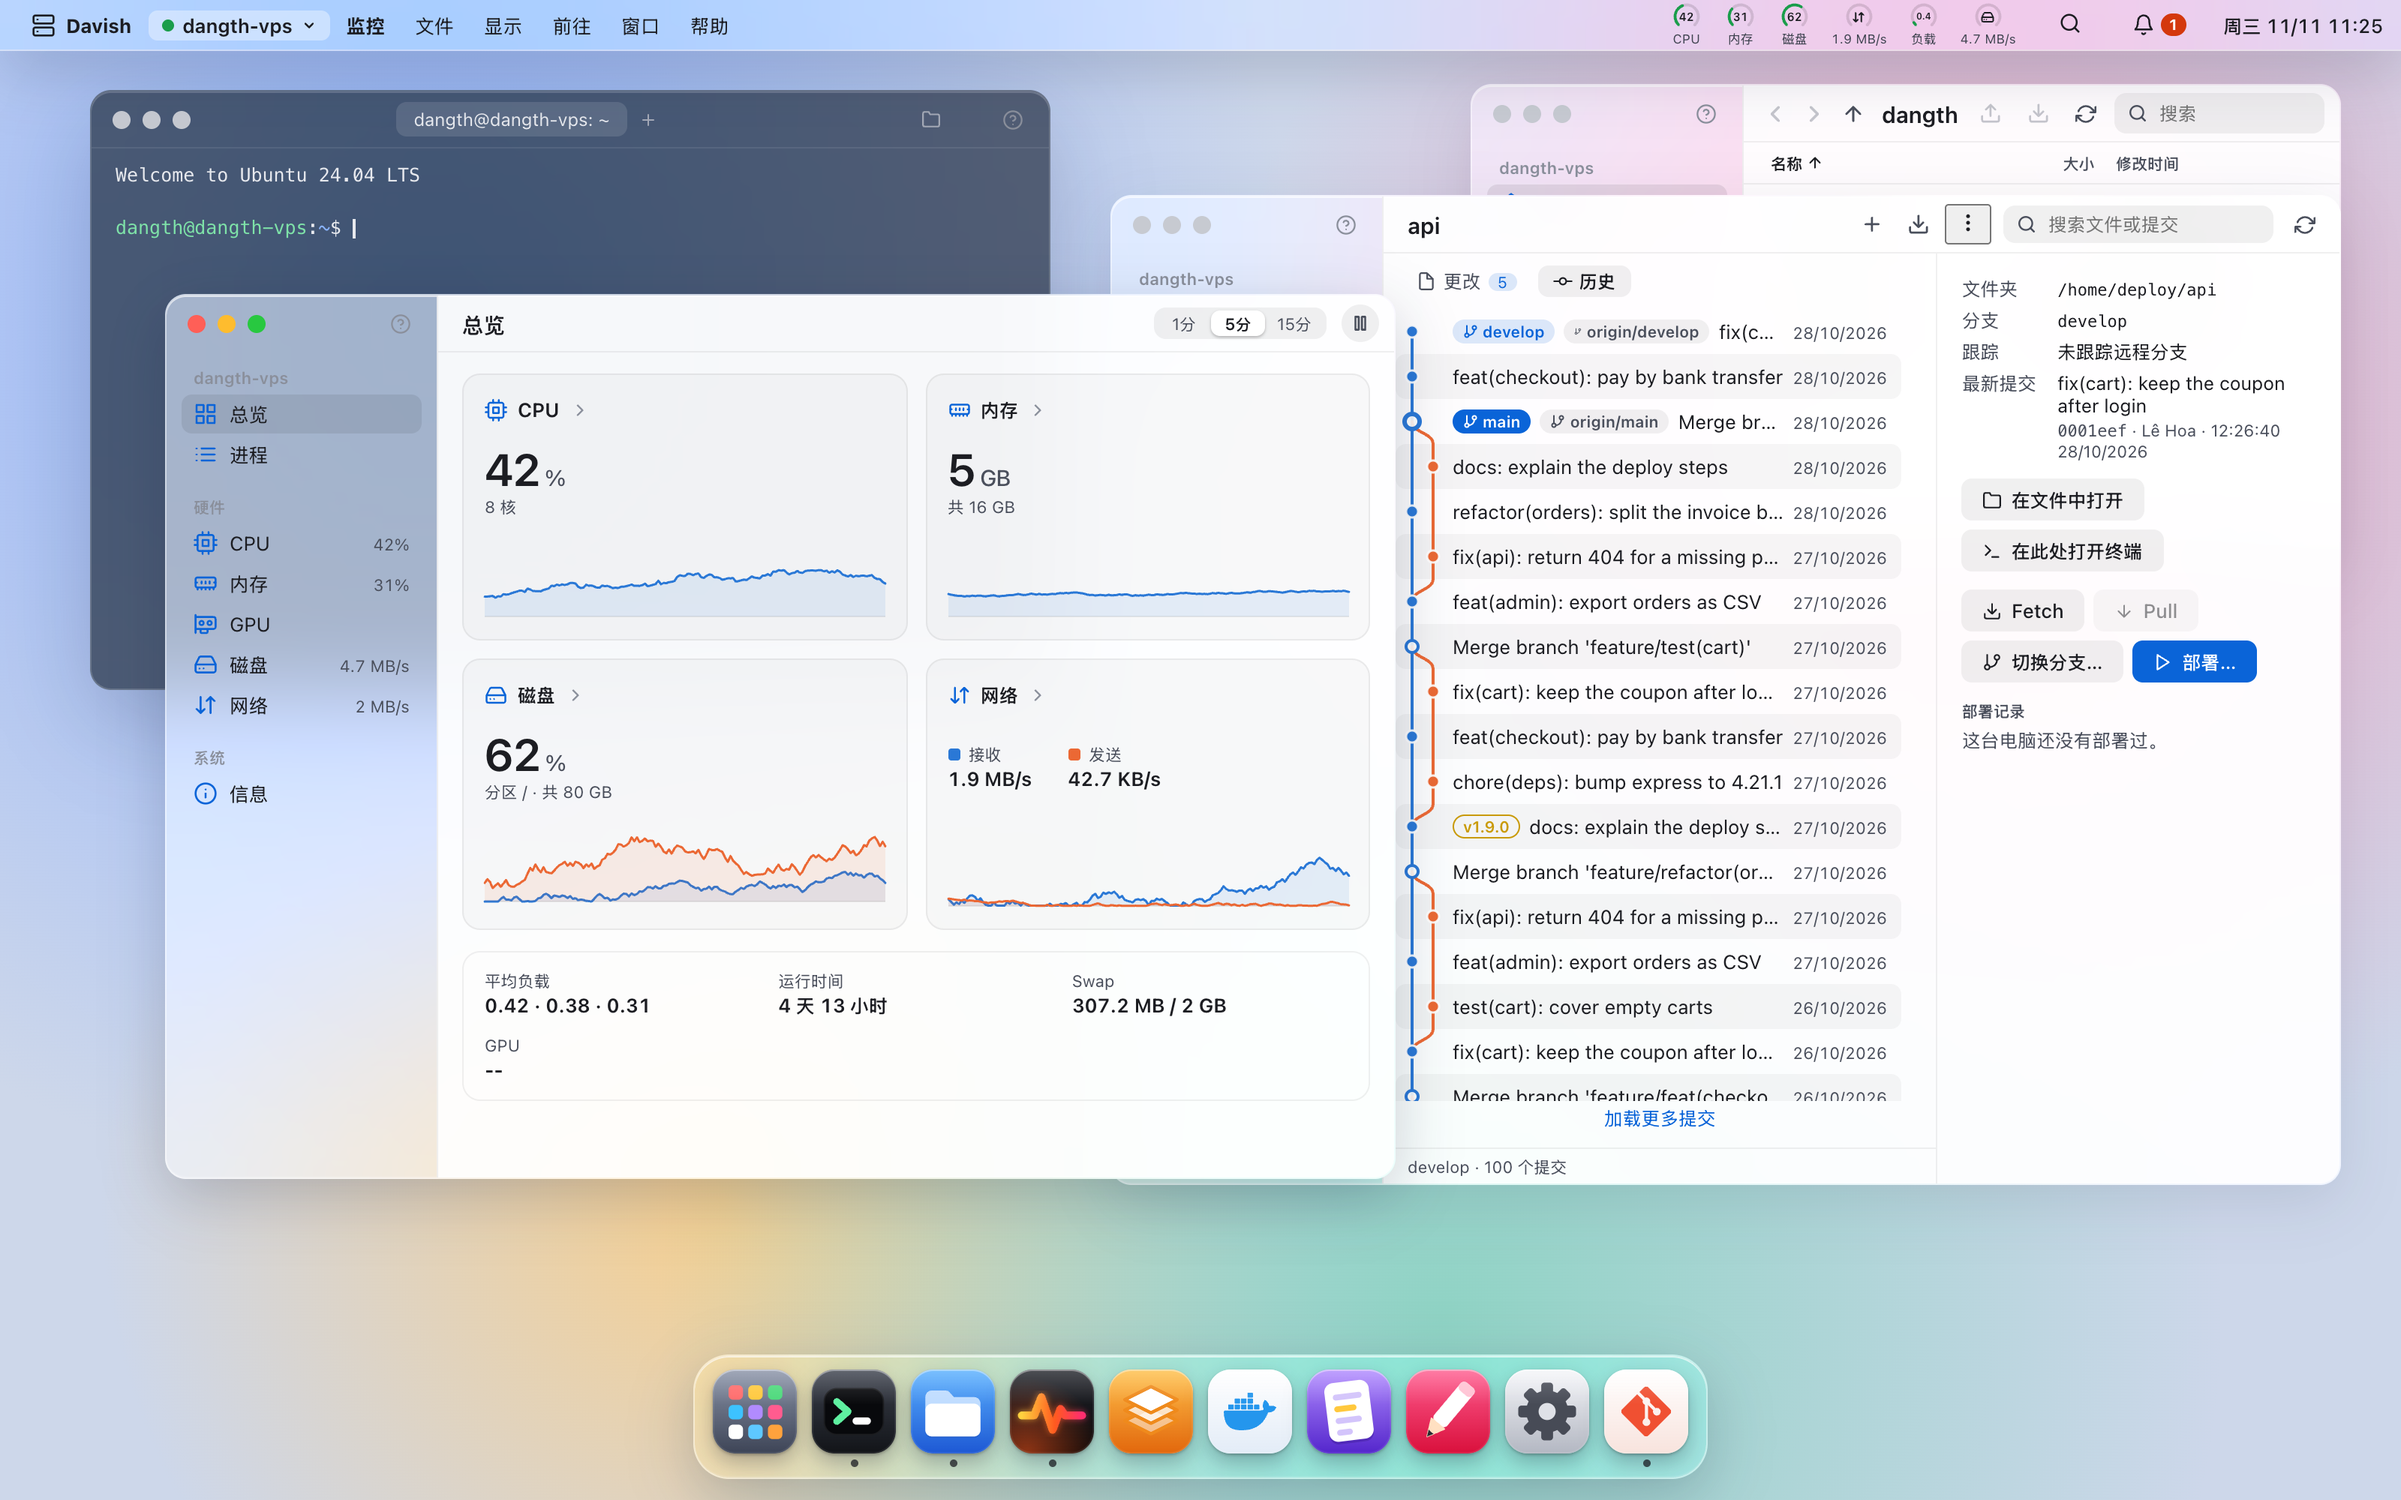
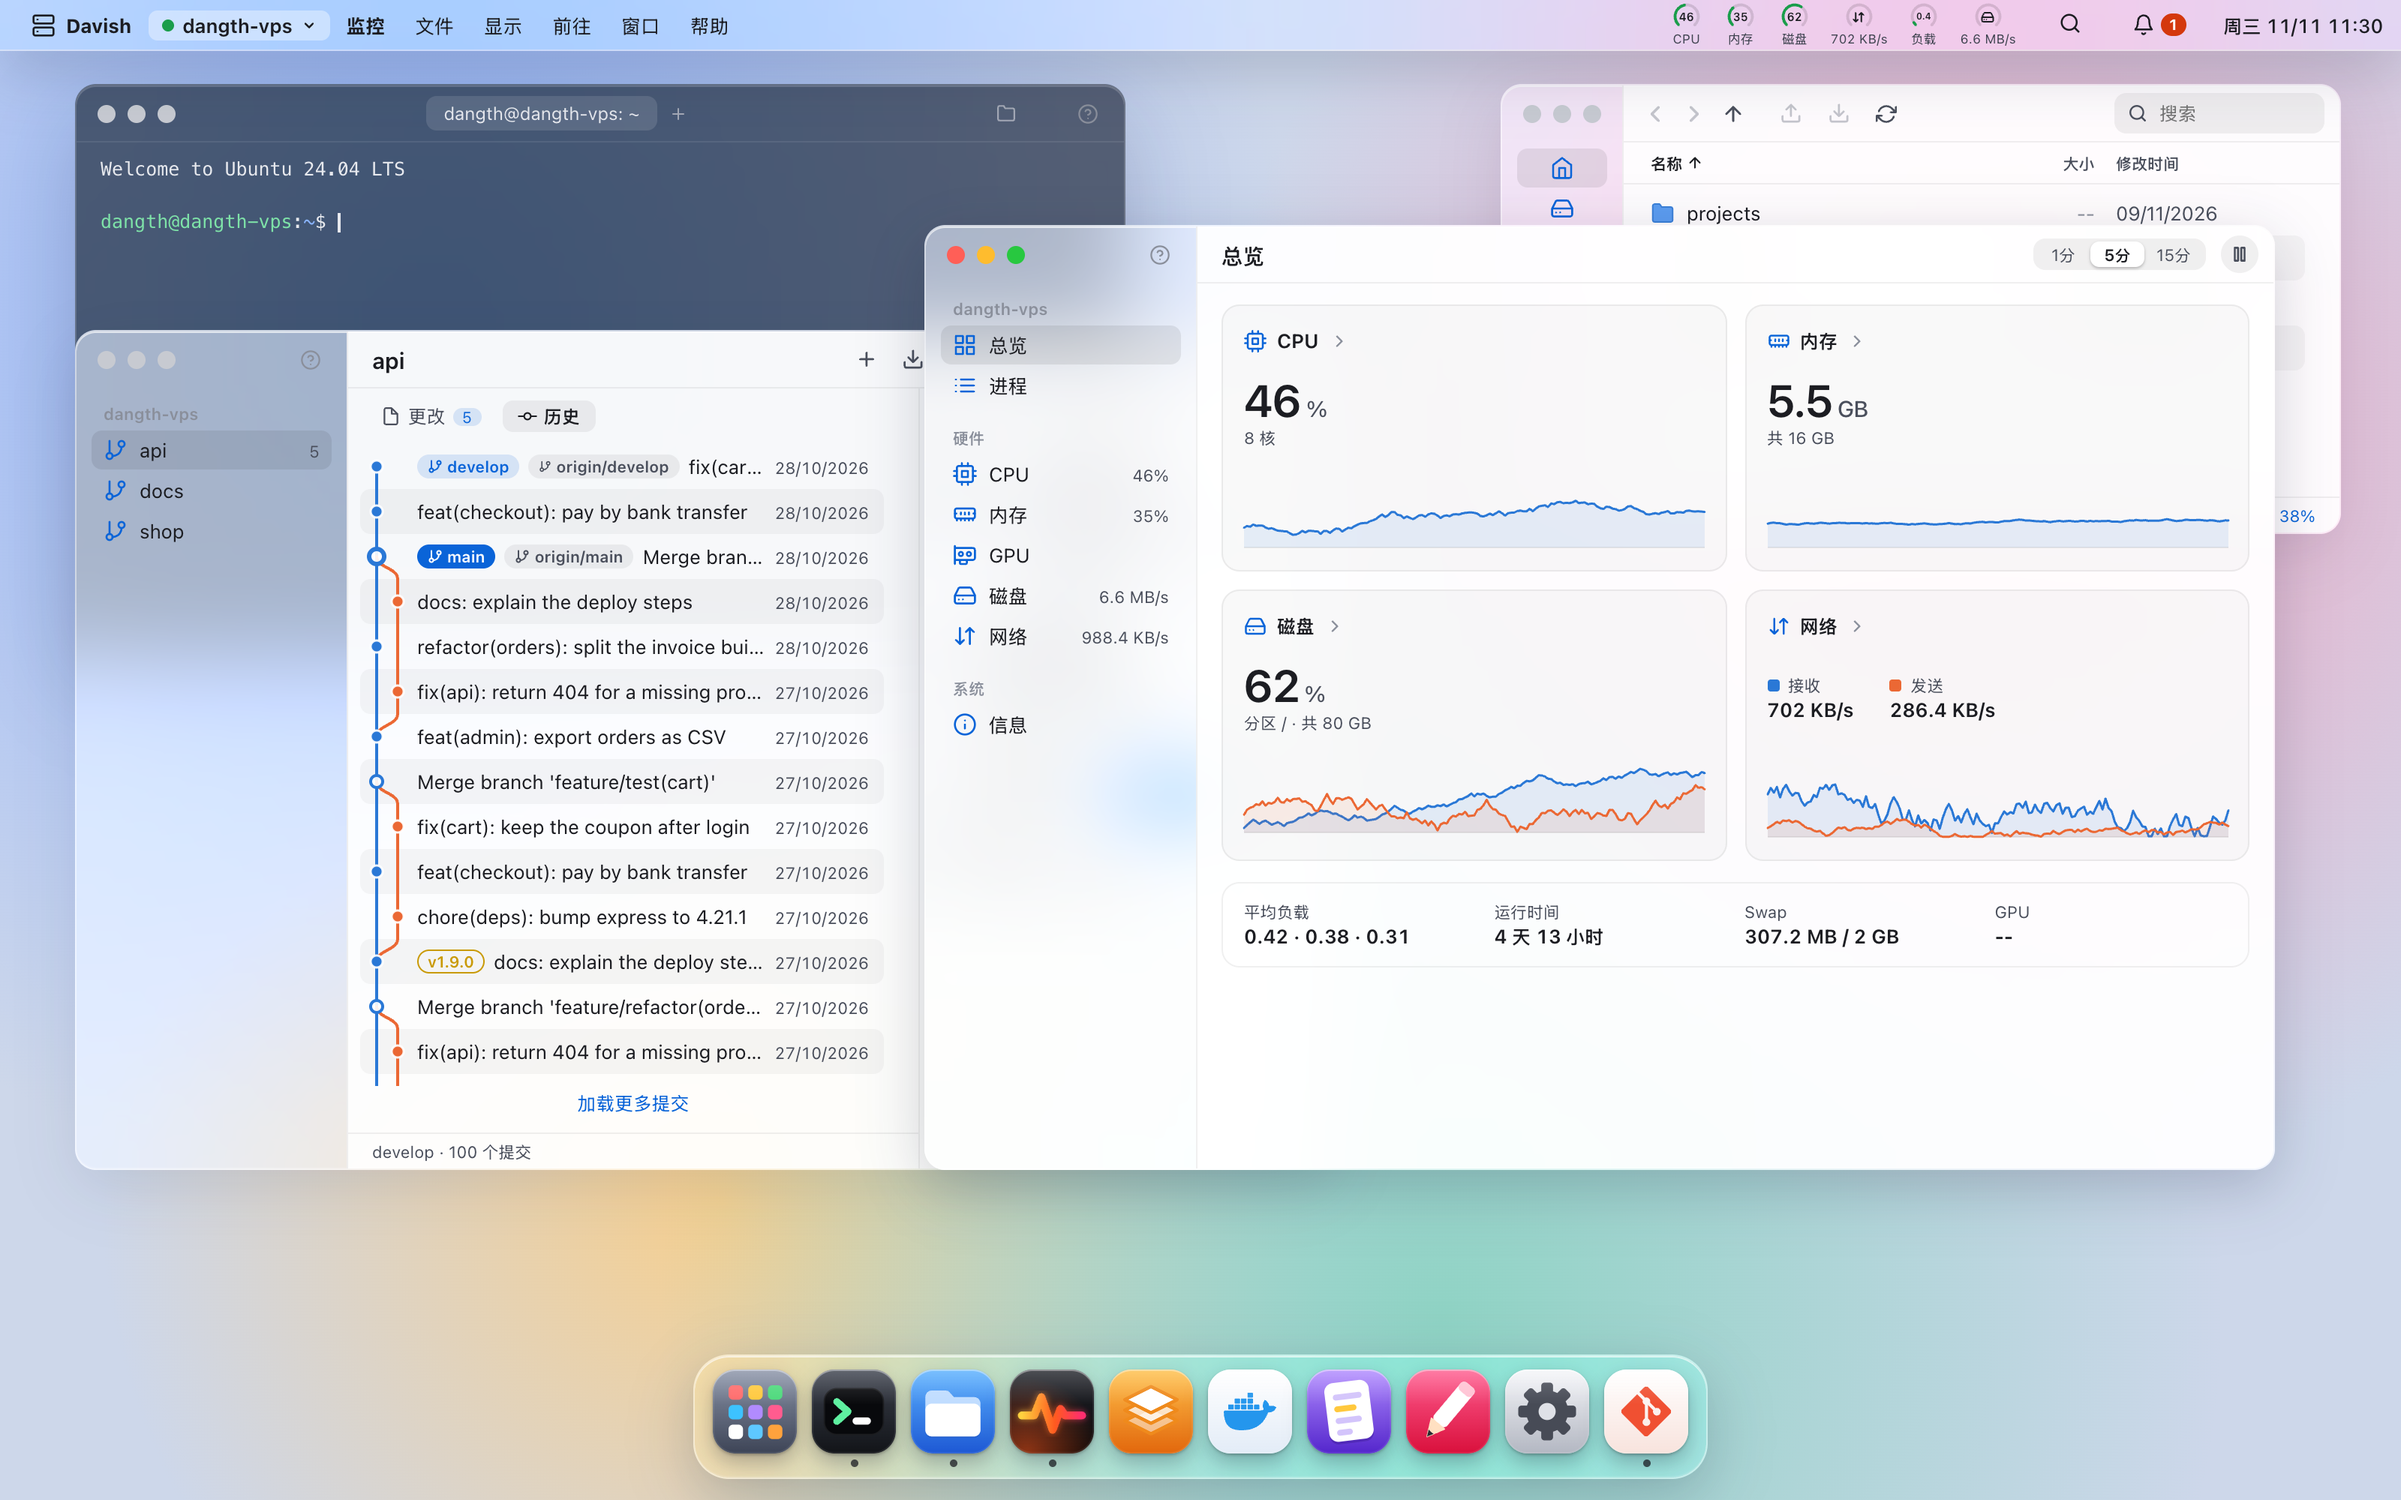
docs(repo): retake the desktop screenshots with the Git commit graph
Every README now opens on Terminal, Git's commit graph, Monitor and Files
in its own language, at 2x. The banner source takes ?lang= and renders
an English, Vietnamese and Chinese banner.

diff --git a/scripts/social-preview.html b/scripts/social-preview.html
@@ -1,6 +1,6 @@
 <!doctype html><html><head><meta charset="utf-8"><style>
 html,body{margin:0;width:1280px;height:640px;overflow:hidden}
-body{background:linear-gradient(135deg,#1b2140,#2b3a6b 55%,#4a3f7a);font-family:-apple-system,"SF Pro Display",Helvetica,sans-serif;color:#fff;position:relative}
+body{background:linear-gradient(135deg,#1b2140,#2b3a6b 55%,#4a3f7a);font-family:-apple-system,"SF Pro Display",Helvetica,"PingFang SC",sans-serif;color:#fff;position:relative}
 .l{position:absolute;left:80px;top:150px;width:560px}
 img.i{width:120px;height:120px}
 h1{font-size:84px;margin:20px 0 8px;letter-spacing:-2px}
@@ -9,7 +9,19 @@ p{font-size:30px;line-height:1.35;margin:0;color:#d8def5}
 .s{position:absolute;right:-60px;top:110px;width:640px;border-radius:14px;box-shadow:0 30px 80px rgba(0,0,0,.5);transform:perspective(1400px) rotateY(-12deg)}
 </style></head><body>
 <div class="l"><img class="i" src="../assets/icon/png/davish-1024.png"><h1>Davish</h1>
-<p>A desktop for your Linux servers.<br>Open it and you're in, over SSH.</p>
-<div class="t">No web panel · No login · No agent</div></div>
-<img class="s" src="../assets/screenshots/en/desktop.jpg">
+<p id="lead"></p>
+<div class="t" id="tag"></div></div>
+<img class="s" id="shot">
+<script>
+// ?lang=en|vi|zh picks the text and the desktop screenshot of that README.
+const TEXT = {
+  en: ["A desktop for your Linux servers.<br>Open it and you're in, over SSH.", "No web panel · No login · No agent", "en/desktop.png"],
+  vi: ["Một desktop cho các server Linux.<br>Mở ra là vào, qua SSH.", "Không web panel · Không đăng nhập · Không agent", "desktop.png"],
+  zh: ["你的 Linux 服务器，就是一个桌面。<br>打开就能用，全部走 SSH。", "无 Web 面板 · 无需登录 · 无 Agent", "zh/desktop.png"],
+};
+const [lead, tag, shot] = TEXT[new URLSearchParams(location.search).get("lang")] ?? TEXT.en;
+document.getElementById("lead").innerHTML = lead;
+document.getElementById("tag").textContent = tag;
+document.getElementById("shot").src = "../assets/screenshots/" + shot;
+</script>
 </body></html>

diff --git a/README.vi.md b/README.vi.md
@@ -1,6 +1,6 @@
 <div align="center">
 
-<img src="assets/social-preview.png" alt="Davish: một desktop cho các server Linux" width="100%">
+<img src="assets/social-preview-vi.png" alt="Davish: một desktop cho các server Linux" width="100%">
 
 # Davish
 
@@ -18,7 +18,7 @@ Không cài gì lên server.
 
 [English](README.md) · **Tiếng Việt** · [简体中文](README.zh-CN.md)
 
-<img src="assets/screenshots/desktop.jpg" alt="Desktop Davish với Terminal, Monitor và Files" width="100%">
+<img src="assets/screenshots/desktop.png" alt="Desktop Davish với Terminal, Git, Monitor và Files" width="100%">
 
 </div>
 

diff --git a/FEATURES.md b/FEATURES.md
@@ -8,7 +8,7 @@ Every app in Davish, what it does and what it runs on the server. The interface 
 
 xterm.js with tabs, copy/paste, GPU rendering, and an optional powerline prompt injected into bash at login, with nothing written on the server.
 
-<img src="assets/screenshots/en/desktop.jpg" alt="Terminal, Monitor and Files" width="100%">
+<img src="assets/screenshots/en/desktop.png" alt="Terminal, Git, Monitor and Files" width="100%">
 
 ## Saved commands
 

diff --git a/README.md b/README.md
@@ -18,7 +18,7 @@ Nothing to install on the server.
 
 **English** · [Tiếng Việt](README.vi.md) · [简体中文](README.zh-CN.md)
 
-<img src="assets/screenshots/en/desktop.jpg" alt="Davish desktop with Terminal, Monitor and Files" width="100%">
+<img src="assets/screenshots/en/desktop.png" alt="Davish desktop with Terminal, Git, Monitor and Files" width="100%">
 
 </div>
 

diff --git a/README.zh-CN.md b/README.zh-CN.md
@@ -18,7 +18,7 @@
 
 [English](README.md) · [Tiếng Việt](README.vi.md) · **简体中文**
 
-<img src="assets/screenshots/zh/desktop.png" alt="Davish 桌面：终端、监控和文件" width="100%">
+<img src="assets/screenshots/zh/desktop.png" alt="Davish 桌面：终端、Git、监控和文件" width="100%">
 
 </div>
 
